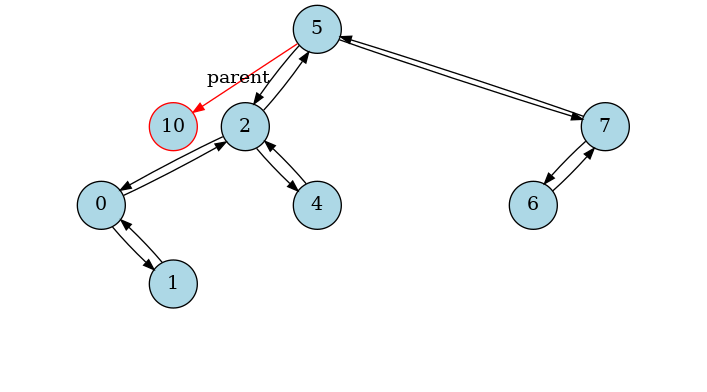
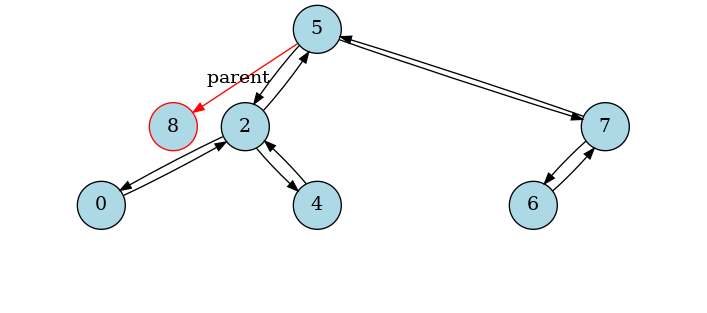
del forts.

Changed region(s): [[0.0934, 0.0, 0.9024, 0.8051]]

diff --git a/kmom07/tree/bst.py b/kmom07/tree/bst.py
@@ -74,8 +74,8 @@ class BinarySearchTree:
             return None 
         node,deleted_value= self._remove(node, key)
         #print(deleted_value)
-        if node is not None and node.parent is None:
-            self.root = node
+        #if node is not None and node.parent is None:
+        #    self.root = node
         return deleted_value
 
     @classmethod
@@ -84,6 +84,7 @@ class BinarySearchTree:
             return None, None
         elif node.is_leaf():
             if node.is_right_child():
+                print("Här")
                 node.parent.right=None
             else:
                 node.parent.left=None
@@ -99,6 +100,10 @@ class BinarySearchTree:
             if node.right is None:
                 return node.left, deleted_value
             succ = cls._find_succ(cls,node.right)
+            if succ.parent is not None:
+                succ.parent.left=succ.right
+            else:
+                succ.parent.right=succ.right
             #if node.parent is None:
             #    succ.parent is None
             #node.key=succ.key
@@ -107,6 +112,7 @@ class BinarySearchTree:
             #deleted_value=node.value
             node.key, node.value=succ.key, succ.value
             node.right, _=cls._remove(node.right, succ.key)
+            del succ
             #succ.parent = node.parent
         return node, deleted_value
 
@@ -145,8 +151,8 @@ if __name__== "__main__":
     bst.insert(8, "8")
     bst.insert(6, "6")
     #bst.inorder_traversal_print()
-    treevizer.to_png(bst.root)
+    #treevizer.to_png(bst.root)
     #print(bst.remove(5))
-    print(bst.remove(8))
+    print(bst.remove(1))
     #bst.inorder_traversal_print()
     treevizer.to_png(bst.root.left, png_path="tree2.png")
